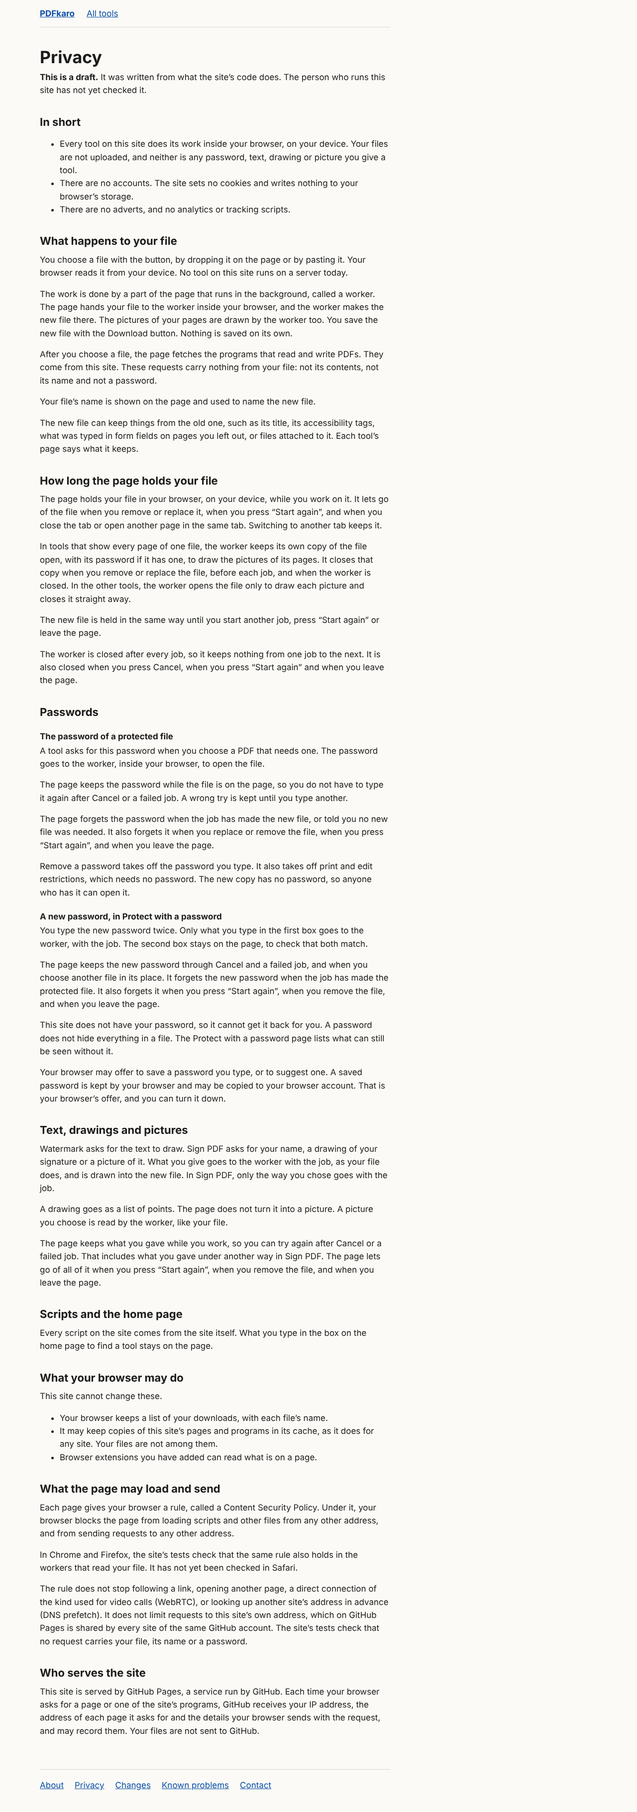
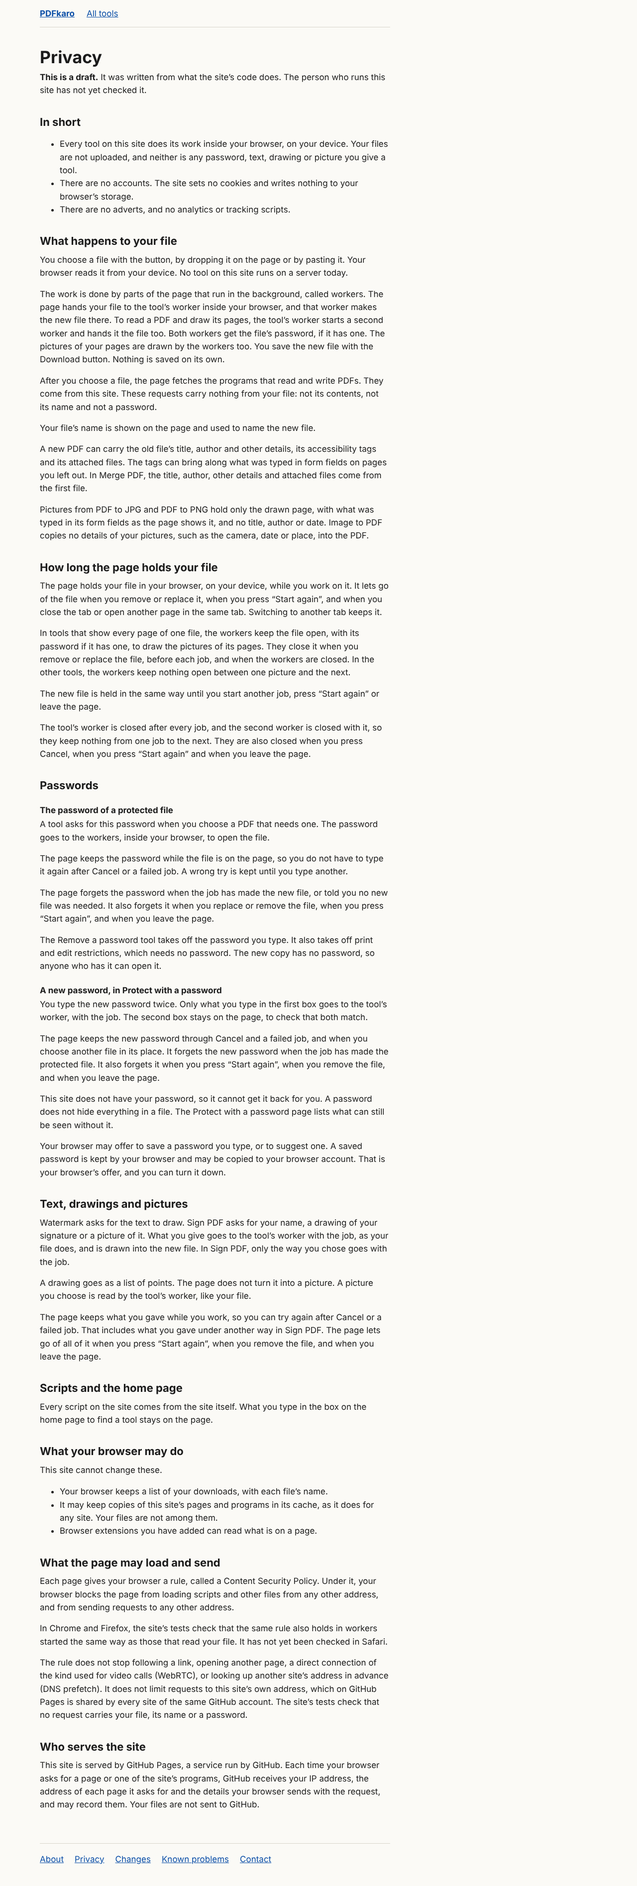
add-privacy-draft: stage 2 fixes from the privacy, UX, code and architect reviews
The Privacy page states what a new PDF and the pictures can carry, in place
of pointing to the tool pages, with Merge PDF's first file and a unit test
that its title is kept. It names PDF.js's worker, started by the tool's
worker, which also gets the file and its password and is closed with it.
The policy sentence says what csp.spec.ts proves. builtFileOf takes off the
base path and decodes; notFoundPage is shared; the draftSentence self-test
is gone. Screenshots taken again; the issue #7 text gains a page text review
item for Merge PDF, Reorder pages and PDF to PNG.

Claude-Session: https://claude.ai/code/session_01Ht5n4xeEVAutobXrc7qGtN

Changed region(s): [[0.0625, 0.0, 0.5938, 0.9618]]

diff --git a/tests/e2e/site.spec.ts b/tests/e2e/site.spec.ts
@@ -4,7 +4,7 @@ import { fileURLToPath } from 'node:url';
 import { expect, test } from './fixtures';
 import { expectNothingStored } from './no-upload';
 import { draftSentence } from '../../src/site';
-import { allPages, bannedWords, hubPages, hubs, sitePages, unwrittenPages, staticPages, toolPages } from './pages';
+import { allPages, bannedWords, hubPages, hubs, notFoundPage, sitePages, staticPages, toolPages, unwrittenPages } from './pages';
 
 /** Every file in the build, as the address path a browser asks for at the root. */
 const distDir = join(dirname(fileURLToPath(import.meta.url)), '../../dist');
@@ -14,8 +14,14 @@ const builtPaths = new Set(
     .map((entry) => `/${relative(distDir, join(entry.parentPath, entry.name)).split(sep).join('/')}`),
 );
 
-/** The built file an address path is served from: "/" is index.html, a page path its .html file. */
-function builtFileOf(pathname: string): string {
+/**
+ * The built file an address path is served from: the base path taken off and the path decoded, then "/" is
+ * index.html and a page path its .html file.
+ */
+function builtFileOf(address: string, base: string): string {
+  const prefix = base.replace(/\/+$/, '');
+  const raw = new URL(address).pathname;
+  const pathname = decodeURIComponent(prefix !== '' && raw.startsWith(`${prefix}/`) ? raw.slice(prefix.length) : raw);
   if (pathname === '/') return '/index.html';
   if (pathname.endsWith('/')) return `${pathname}index.html`;
   return /\.[a-z0-9]+$/i.test(pathname.slice(pathname.lastIndexOf('/'))) ? pathname : `${pathname}.html`;
@@ -58,8 +64,8 @@ test.describe('every page', () => {
         expect(request.method, request.url).toBe('GET');
         expect(request.body, request.url).toBeNull();
         expect(new URL(request.url).search, request.url).toBe('');
-        const pathname = new URL(request.url).pathname;
-        const file = path === '/no-such-page' && pathname === path ? '/404.html' : builtFileOf(pathname);
+        const served = builtFileOf(request.url, new URL(baseURL!).pathname);
+        const file = path === notFoundPage && served === `${notFoundPage}.html` ? '/404.html' : served;
         expect(builtPaths.has(file), `${request.url} is not a file in the build`).toBe(true);
       }
 
@@ -154,7 +160,7 @@ test.describe('canonical tags', () => {
       await expect(page.locator('link[rel="canonical"]')).toHaveCount(1);
       expect(await page.locator('link[rel="canonical"]').getAttribute('href'), path).toBe(page.url());
     }
-    await page.goto('/no-such-page');
+    await page.goto(notFoundPage);
     await expect(page.locator('link[rel="canonical"]')).toHaveCount(0);
     await expect(page.locator('meta[property^="og:"]')).toHaveCount(0);
   });
@@ -226,7 +232,7 @@ test.describe('home page group headings', () => {
 
 test.describe('page not found', () => {
   test('answers 404 and links to the list of tools', async ({ page }) => {
-    const response = await page.goto('/no-such-page');
+    const response = await page.goto(notFoundPage);
     expect(response?.status()).toBe(404);
     await expect(page.getByRole('heading', { level: 1 })).toHaveText('Page not found');
     await page.getByRole('link', { name: 'See the list of all tools' }).click();

diff --git a/tests/e2e/pages.ts b/tests/e2e/pages.ts
@@ -28,10 +28,13 @@ export const widgetPages = registryPages(tools)
   .filter(({ tool }) => tool.widget)
   .map(({ page }) => `/${page.slug}`);
 
-/** Pages with nothing to interact with yet. Tool pages leave this list when the tool widget arrives. */
-export const staticPages = [...toolPages.filter((path) => !widgetPages.includes(path)), ...hubPages, ...sitePages, '/no-such-page'];
+/** An address with no page, which the server answers with the 404 page. */
+export const notFoundPage = '/no-such-page';
 
-export const allPages = ['/', ...toolPages, ...hubPages, ...sitePages, '/no-such-page'];
+/** Pages with nothing to interact with yet. Tool pages leave this list when the tool widget arrives. */
+export const staticPages = [...toolPages.filter((path) => !widgetPages.includes(path)), ...hubPages, ...sitePages, notFoundPage];
+
+export const allPages = ['/', ...toolPages, ...hubPages, ...sitePages, notFoundPage];
 
 // Words that SPEC.md bans from every page.
 export const bannedWords = [

diff --git a/tests/unit/site.test.ts b/tests/unit/site.test.ts
@@ -1,5 +1,5 @@
 import { describe, expect, it } from 'vitest';
-import { absoluteUrl, defaultOrigin, draftSentence, footerLinks, footerPage, isSiteBase, isSiteOrigin, tagline, withBase } from '../../src/site';
+import { absoluteUrl, defaultOrigin, footerLinks, footerPage, isSiteBase, isSiteOrigin, tagline, withBase } from '../../src/site';
 import { tools as registryTools, type Group, type Tool } from '../../src/tools/registry';
 import { groupsWithItems, relatedItems, toListItem } from '../../src/tools/queries';
 import { serverTools } from './server-tools';
@@ -151,10 +151,6 @@ describe('footer pages', () => {
       ['/known-problems', false],
       ['/contact', false],
     ]);
-  });
-
-  it('share one draft line, a plain sentence the Privacy draft and the search check both read', () => {
-    expect(draftSentence).toBe('This is a draft.');
   });
 });
 

diff --git a/tests/unit/merge-pdf.test.ts b/tests/unit/merge-pdf.test.ts
@@ -183,3 +183,12 @@ describe("qpdf's arguments", () => {
     expect(mergeArgs(2, ['pw'])).toEqual(['--progress', '--password=pw', '--decrypt', '/in/0.pdf', '--pages', '.', '1-z', '/in/1.pdf', '1-z', '--', '/out.pdf']);
   });
 });
+
+describe('the document details', () => {
+  // The Privacy page says a merged file's title, author and other details come from the first file.
+  it('come from the first file: its title is kept, and no later file’s', async () => {
+    const titleOf = async (names: string[]) => (await PDFDocument.load((await merge(names)).out, { updateMetadata: false })).getTitle();
+    expect(await titleOf(['text.pdf', 'mixed.pdf'])).toBe('An ordinary text document');
+    expect(await titleOf(['mixed.pdf', 'text.pdf'])).toBe('Mixed sizes and rotation');
+  });
+});

diff --git a/openspec/changes/add-privacy-draft/design.md b/openspec/changes/add-privacy-draft/design.md
@@ -50,39 +50,41 @@ Meta description: "What happens to your files, passwords and anything you type o
 >
 > You choose a file with the button, by dropping it on the page or by pasting it. Your browser reads it from your device. No tool on this site runs on a server today.
 >
-> The work is done by a part of the page that runs in the background, called a worker. The page hands your file to the worker inside your browser, and the worker makes the new file there. The pictures of your pages are drawn by the worker too. You save the new file with the Download button. Nothing is saved on its own.
+> The work is done by parts of the page that run in the background, called workers. The page hands your file to the tool's worker inside your browser, and that worker makes the new file there. To read a PDF and draw its pages, the tool's worker starts a second worker and hands it the file too. Both workers get the file's password, if it has one. The pictures of your pages are drawn by the workers too. You save the new file with the Download button. Nothing is saved on its own.
 >
 > After you choose a file, the page fetches the programs that read and write PDFs. They come from this site. These requests carry nothing from your file: not its contents, not its name and not a password.
 >
 > Your file's name is shown on the page and used to name the new file.
 >
-> The new file can keep things from the old one, such as its title, its accessibility tags, what was typed in form fields on pages you left out, or files attached to it. Each tool's page says what it keeps.
+> A new PDF can carry the old file's title, author and other details, its accessibility tags and its attached files. The tags can bring along what was typed in form fields on pages you left out. In Merge PDF, the title, author, other details and attached files come from the first file.
+>
+> Pictures from PDF to JPG and PDF to PNG hold only the drawn page, with what was typed in its form fields as the page shows it, and no title, author or date. Image to PDF copies no details of your pictures, such as the camera, date or place, into the PDF.
 >
 > ## How long the page holds your file
 >
 > The page holds your file in your browser, on your device, while you work on it. It lets go of the file when you remove or replace it, when you press "Start again", and when you close the tab or open another page in the same tab. Switching to another tab keeps it.
 >
-> In tools that show every page of one file, the worker keeps its own copy of the file open, with its password if it has one, to draw the pictures of its pages. It closes that copy when you remove or replace the file, before each job, and when the worker is closed. In the other tools, the worker opens the file only to draw each picture and closes it straight away.
+> In tools that show every page of one file, the workers keep the file open, with its password if it has one, to draw the pictures of its pages. They close it when you remove or replace the file, before each job, and when the workers are closed. In the other tools, the workers keep nothing open between one picture and the next.
 >
 > The new file is held in the same way until you start another job, press "Start again" or leave the page.
 >
-> The worker is closed after every job, so it keeps nothing from one job to the next. It is also closed when you press Cancel, when you press "Start again" and when you leave the page.
+> The tool's worker is closed after every job, and the second worker is closed with it, so they keep nothing from one job to the next. They are also closed when you press Cancel, when you press "Start again" and when you leave the page.
 >
 > ## Passwords
 >
 > ### The password of a protected file
 >
-> A tool asks for this password when you choose a PDF that needs one. The password goes to the worker, inside your browser, to open the file.
+> A tool asks for this password when you choose a PDF that needs one. The password goes to the workers, inside your browser, to open the file.
 >
 > The page keeps the password while the file is on the page, so you do not have to type it again after Cancel or a failed job. A wrong try is kept until you type another.
 >
 > The page forgets the password when the job has made the new file, or told you no new file was needed. It also forgets it when you replace or remove the file, when you press "Start again", and when you leave the page.
 >
-> Remove a password takes off the password you type. It also takes off print and edit restrictions, which needs no password. The new copy has no password, so anyone who has it can open it.
+> The Remove a password tool takes off the password you type. It also takes off print and edit restrictions, which needs no password. The new copy has no password, so anyone who has it can open it.
 >
 > ### A new password, in Protect with a password
 >
-> You type the new password twice. Only what you type in the first box goes to the worker, with the job. The second box stays on the page, to check that both match.
+> You type the new password twice. Only what you type in the first box goes to the tool's worker, with the job. The second box stays on the page, to check that both match.
 >
 > The page keeps the new password through Cancel and a failed job, and when you choose another file in its place. It forgets the new password when the job has made the protected file. It also forgets it when you press "Start again", when you remove the file, and when you leave the page.
 >
@@ -92,9 +94,9 @@ Meta description: "What happens to your files, passwords and anything you type o
 >
 > ## Text, drawings and pictures
 >
-> Watermark asks for the text to draw. Sign PDF asks for your name, a drawing of your signature or a picture of it. What you give goes to the worker with the job, as your file does, and is drawn into the new file. In Sign PDF, only the way you chose goes with the job.
+> Watermark asks for the text to draw. Sign PDF asks for your name, a drawing of your signature or a picture of it. What you give goes to the tool's worker with the job, as your file does, and is drawn into the new file. In Sign PDF, only the way you chose goes with the job.
 >
-> A drawing goes as a list of points. The page does not turn it into a picture. A picture you choose is read by the worker, like your file.
+> A drawing goes as a list of points. The page does not turn it into a picture. A picture you choose is read by the tool's worker, like your file.
 >
 > The page keeps what you gave while you work, so you can try again after Cancel or a failed job. That includes what you gave under another way in Sign PDF. The page lets go of all of it when you press "Start again", when you remove the file, and when you leave the page.
 >
@@ -114,7 +116,7 @@ Meta description: "What happens to your files, passwords and anything you type o
 >
 > Each page gives your browser a rule, called a Content Security Policy. Under it, your browser blocks the page from loading scripts and other files from any other address, and from sending requests to any other address.
 >
-> In Chrome and Firefox, the site's tests check that the same rule also holds in the workers that read your file. It has not yet been checked in Safari.
+> In Chrome and Firefox, the site's tests check that the same rule also holds in workers started the same way as those that read your file. It has not yet been checked in Safari.
 >
 > The rule does not stop following a link, opening another page, a direct connection of the kind used for video calls (WebRTC), or looking up another site's address in advance (DNS prefetch). It does not limit requests to this site's own address, which on GitHub Pages is shared by every site of the same GitHub account. The site's tests check that no request carries your file, its name or a password.
 >
@@ -129,6 +131,13 @@ Notes on wording, from the stage 1 review:
 - The first sentence of "What the page may load and send" speaks only of the page. Workers are named only in the sentence about Chrome and Firefox, because the policy in the file-reading workers has not been checked in Safari (`add-content-security-policy`, WebKit risk; issue #7).
 - "Any other address", not "any other site": on GitHub Pages the site's own address is shared with the account's other Pages sites, which the policy allows.
 - The earlier "What the site does not do" list repeated "In short"; only what was new is kept, under "Scripts and the home page".
+
+Changed at the stage 2 review (privacy, UX):
+- "Each tool's page says what it keeps" was not true (Merge PDF's, Reorder pages' and PDF to PNG's pages do not say it all). The page now states what a new PDF and the pictures can carry, with Merge PDF's first file and Image to PDF's picture details. The tool pages are not changed here; their missing lines are an issue #7 page text review item.
+- PDF.js's worker was left out. The page now says the tool's worker starts a second worker to read a PDF and draw its pages, that both get the file and its password, and that both are closed together. "The worker" is now "the tool's worker" where only it is meant.
+- "Opens the file only to draw each picture" became "keep nothing open between one picture and the next": the workers also open the file to read it and to run the job.
+- The policy sentence on workers says what `csp.spec.ts` proves: the rule holds in workers started the same way as those that read the file.
+- "The Remove a password tool takes off…", so the tool's name reads as a name.
 
 ### 3. Draft and search engines
 
@@ -153,21 +162,21 @@ Each claim on the page, the code that makes it true today, and what proves it. "
 | Every tool works in the browser; no tool runs on a server today | Every `runsIn: 'browser'` in `src/tools/registry.ts`; jobs go by `postMessage` in `src/workers/client.ts` | Server guard in `tests/unit/privacy-page.test.ts` (decision 5); `tests/unit/client.test.ts` "posts the file itself" |
 | Files, passwords, text, drawings and pictures are not uploaded; requests carry nothing from the file, its name or a password | `useToolRun` holds files, passwords and pictures in refs and sends them only to the worker | Each tool's no-upload test (`violations` in `tests/e2e/no-upload.ts`: no body, no other origin, no secret in an address or header), in the 13 tool specs and `merge-pdf.spec.ts`; secrets include file names, typed text, picture names and passwords |
 | The programs come from this site, after a file is chosen | Late loading in `tool.worker.ts`; `connect-src 'self'` | `npm run check:worker`; `site.spec.ts` "every page" (all requests same-origin); no-upload allow-lists of built files |
-| The worker makes the new file and draws the page pictures; you save it with Download; nothing saves on its own | `worker-core.ts`, `thumbnail.ts`; `Result` has `<a download>` | Every tool's e2e test presses Download; `tool-page` spec |
+| The tool's worker makes the new file; to read a PDF and draw its pages it starts a second worker (PDF.js's) and hands it the file; both get the file's password; the workers draw the page pictures; you save it with Download; nothing saves on its own | `worker-core.ts`; `createPdfjsLoader` in `pdfjs-loader.ts` starts PDF.js's worker through `workerFromBlob`; `openDocument` in `thumbnail.ts` passes the bytes and password to `getDocument` (thumbnails and the PDF to JPG and PNG job); `picture-thumbnail.ts` draws pictures in the tool worker; `Result` has `<a download>` | Every tool's e2e test presses Download; `tool-page` spec; `merge-pdf.spec.ts` no-upload test sees `pdf.worker.min` fetched after thumbnails are asked for; `thumbnail-plumbing.test.ts` (password passed to `openDocument`) |
 | The file's name is shown and used to name the new file | `outputName` in `useToolRun`; names never sent | `format.test.ts` output names; no-upload secrets |
-| The new file can keep title, tags, field values of left-out pages, attachments; each tool's page says what | Tools' engines (`keepPages`, Merge's first-file attachments) | Each tool's page text and engine tests (Extract, Delete, Merge); release check that the page text still says so |
+| A new PDF can carry the title, author and other details, tags and attachments; tags can bring field values of left-out pages; in Merge PDF the details and attachments are the first file's; PDF to JPG and PNG pictures hold only the drawn page (form values as shown), no title, author or date; Image to PDF copies no picture details | qpdf keeps the primary input's trailer `/Info` and catalog (Merge: the first file is the primary input, `mergeArgs`); `keepPages`, `writePages`, `stampPages` keep the catalog; `pdf-to-images.ts` draws with form values and the canvas encoder writes no text, EXIF or comment; `images-to-pdf.ts` creates the document with `updateMetadata: false` and rebuilds JPGs without picture details | `merge-pdf.test.ts` "the document details" (new: the first file's title is kept, no later file's); Extract and Delete engine tests (tags, fields of left-out pages); `images-to-pdf.test.ts` (no `/Info`, no `/Metadata`, no Exif or GPS); release check for the picture encoders (browser behaviour) |
 | The page holds the file until remove/replace, "Start again" or leaving; switching tabs keeps it | `removeFile`, `clear`, `pagehide` → `clear` in `useToolRun.ts` | Release check (the repo has no DOM test library); `state.test.ts` for the reducer side; the new e2e step below for the result |
-| In tools that show every page of one file (`items: 'pages'`: Split, Extract, Delete, Reorder, Rotate), the worker keeps its own open copy, with the password, while the file is on the page, and closes it on remove, replace, before every read and every job, and when the worker is closed; other tools open the file for each picture and close it at once | `keep = words.items === 'pages'` and `closeDocument` after each picture otherwise (`useToolRun.ts`, thumbnail step); `closeDocument` in `removeFile`; `closeKept()` before every read and job in `worker-core.ts`; `ToolClient.run` ends the worker; PDF.js document in `thumbnail.ts` | `thumbnail-plumbing.test.ts` ("draws many pages of one file from one open document", "closes it when another file is asked for", "closes it before a read and before a job"); release check for keep-versus-close per tool and for remove and replace in the page |
+| In tools that show every page of one file (`items: 'pages'`: Split, Extract, Delete, Reorder, Rotate), the workers keep the file open, with the password, while the file is on the page, and close it on remove, replace, before every read and every job, and when the workers are closed; other tools keep nothing open between pictures | `keep = words.items === 'pages'` and `closeDocument` after each picture otherwise (`useToolRun.ts`, thumbnail step); `closeDocument` in `removeFile`; `closeKept()` before every read and job in `worker-core.ts` destroys the PDF.js document, which lives in PDF.js's worker; `ToolClient.run` ends the tool worker | `thumbnail-plumbing.test.ts` ("draws many pages of one file from one open document", "closes it when another file is asked for", "closes it before a read and before a job"); release check for keep-versus-close per tool and for remove and replace in the page |
 | The new file is held until another job, "Start again" or leaving | `releaseResult` in `start` and `clear` revokes the `blob:` address | New e2e test in `merge-pdf.spec.ts`, in its own context with `bypassCSP: true` (the policy refuses `fetch` of a `blob:` address either way): `fetch` of the Download `href` and a thumbnail's `blob:` address succeeds before "Start again" and fails after. Leaving: release check |
-| The worker is closed after every job and on Cancel | `ToolClient.run` ends it in `finally`; `cancel` calls `end()` | `client.test.ts` "ends the worker when the job is done", "cancels by ending the worker"; `worker-core.test.ts` |
-| The worker is closed on "Start again" and on leaving | `clear` calls `end()`; `pagehide` → `clear` | Release check |
+| The tool's worker is closed after every job and on Cancel, and PDF.js's worker, nested in it, is closed with it | `ToolClient.run` ends it in `finally`; `cancel` calls `end()`; `terminate()` of a worker also closes the workers it started (HTML standard) | `client.test.ts` "ends the worker when the job is done", "cancels by ending the worker"; `worker-core.test.ts`; release check that the nested worker goes with it |
+| The workers are closed on "Start again" and on leaving | `clear` calls `end()`; `pagehide` → `clear` | Release check |
 | An input file's password: kept while on the page and through Cancel and failure; forgotten after a new file or a "no new file" outcome, replace/remove, "Start again", leaving; a wrong try kept until replaced | `runJob` `forgetInputPasswords`; `removeFile`; `clear`; `useToolRun` tickets | `run-job.test.ts`; `unlock-pdf.spec.ts` (wrong try answered last); release check for remove, replace and leaving |
 | Remove a password: restrictions removed with no password; the new copy has no password and opens for anyone | `src/engines/tools/unlock-pdf.ts` (`--decrypt`, `encryptedIn` check) | `unlock-pdf.test.ts` (restrictions-only file, result not encrypted); `unlock-pdf.spec.ts` |
 | A new password: only the first box goes; kept through Cancel, failure and another file chosen in its place; forgotten after the protected file, "Start again", removing the file, leaving | `jobOptions` sends `first` only; `forgetNewPasswords` in `runJob`, `removeFile`, `clear` | `run-job.test.ts`; `options.test.ts`; `protect-pdf.spec.ts` emptied-field and no-upload checks; release check for leaving |
 | The site does not have the password and cannot get it back | No request carries it | `protect-pdf.spec.ts` no-upload; `password-rule.test.ts` |
 | The browser may offer to save or suggest a password, and sync it | `autocomplete="new-password"` in `NewPasswordField`; `autocomplete="off"` in `PasswordField`, which browsers may still offer to save | Browser behaviour; release check |
-| Text, drawings and pictures go to the worker with the job and are drawn into the file; in Sign PDF only the chosen way goes | Options in `jobOptions`; hidden options send no key (`optionsToSend`, `picturesToSend`) | `options.test.ts` (hidden option sends no key); `watermark-pdf.spec.ts`, `sign-pdf.spec.ts` no-upload |
-| A drawing goes as points and is not turned into a picture; a picture is read by the worker | `DrawingPad` keeps points; pictures in a ref, `inspect-picture` in the worker | `components.test.tsx` pad source test; `sign-pdf.spec.ts` |
+| Text, drawings and pictures go to the tool's worker with the job and are drawn into the file; in Sign PDF only the chosen way goes | Options in `jobOptions`; hidden options send no key (`optionsToSend`, `picturesToSend`) | `options.test.ts` (hidden option sends no key); `watermark-pdf.spec.ts`, `sign-pdf.spec.ts` no-upload |
+| A drawing goes as points and is not turned into a picture; a picture is read by the tool's worker | `DrawingPad` keeps points; pictures in a ref, `inspect-picture` in the tool worker (no PDF.js) | `components.test.tsx` pad source test; `sign-pdf.spec.ts` |
 | What was given is kept through Cancel and failure, including other ways in Sign PDF; let go on "Start again", removing the file, leaving | Reducer `choices` reset on `reset` and on removing the last file; hidden options keep their values; `pictures` cleared in `clear` and `removeFile` | `state.test.ts` "forgets a choice when the last file is removed"; `options.test.ts`; release check for leaving |
 | Tools named per input kind | `options` kinds in the registry | Names guard in `privacy-page.test.ts` (decision 5) |
 | No accounts | No sign-in code anywhere | Release check |
@@ -176,7 +185,7 @@ Each claim on the page, the code that makes it true today, and what proves it. "
 | What is typed in the home page box stays on the page | `ToolDirectory` filters in the page | `home.spec.ts` "keeps what is typed on the page" |
 | Downloads list, cache, extensions | Browser behaviour | Release check |
 | The page is blocked from loading from, and sending to, other addresses | `scripts/csp.mjs` meta policy | `npm run check:csp`; `csp.spec.ts` page probes |
-| In Chrome and Firefox the same rule holds in the file-reading workers | `workerFromBlob` starts both workers from `blob:` | `csp.spec.ts` in Chromium and the `firefox` project: a probe worker started the same `blob:` way, and one nested in it, have `eval` and other-origin `fetch` blocked; real jobs (Merge, PDF to JPG, Sign, Split) show `blob:` worker starts and no violation |
+| In Chrome and Firefox the same rule holds in workers started the same way as those that read the file | `workerFromBlob` starts both workers from `blob:` | `csp.spec.ts` in Chromium and the `firefox` project: a probe worker started the same `blob:` way, and one nested in it, have `eval` and other-origin `fetch` blocked; real jobs (Merge, PDF to JPG, Sign, Split) show `blob:` worker starts and no violation |
 | Not yet checked in Safari | WebKit dropped from CI (owner, 22 Nov 2026) | Issue #7 hand check; the Safari guard keeps the sentence (decision 5) |
 | The policy does not stop links, opening pages, WebRTC or DNS prefetch, nor requests to the site's own address, shared by every Pages site of the account | Meta policy; `'self'` is the `github.io` origin | `privacy` spec "What the policy does not stop"; no-upload tests guard same-origin requests; the guard keeps the sentence |
 | Served by GitHub Pages, which receives the IP address, the address asked for and request details, and may record them | `.github/workflows/pages.yml` | Release check; owner question 3 |
@@ -200,7 +209,7 @@ The test reads `src/pages/privacy.astro` as text, strips the frontmatter (betwee
 ### 6. Checks in the site end-to-end test
 
 - `tests/e2e/no-upload.ts` exports `expectNothingStored(page, context)`, built on `traces`: no cookie, and `localStorage`, `sessionStorage`, `indexedDB.databases()`, `caches.keys()` and the origin private file system all empty. Tools' own tests may move to it later; this change does not touch them.
-- "Every page keeps to the look and the rules" in `site.spec.ts` calls it after the network settles, and also requires every request to be a `GET` with no body and no query string, to the site's own origin and a path that exists in `dist/` (the base path removed, `/` and page paths mapped to their `.html` files).
+- "Every page keeps to the look and the rules" in `site.spec.ts` calls it after the network settles, and also requires every request to be a `GET` with no body and no query string, to the site's own origin and a path that exists in `dist/` (the base path removed and the path percent-decoded, `/` and page paths mapped to their `.html` files; the 404 test address, `notFoundPage` in `tests/e2e/pages.ts`, maps to `404.html`).
 - "The privacy page makes no claim" becomes "the privacy page is a marked draft": one `h1` "Privacy", the first paragraph of `main` starts with `draftSentence`, and `meta[name="robots"]` is present.
 - `merge-pdf.spec.ts` gains one test in its own browser context created with `bypassCSP: true`, because `connect-src 'self'` refuses `fetch` of a `blob:` address whether or not it was revoked, so under the policy the test would fail on the violation or pass for the wrong reason. After a job it keeps the Download `href` and one thumbnail's `blob:` address and checks that `fetch` of each in the page succeeds (the positive control), presses "Start again", and checks that `fetch` of each now fails. Only this test bypasses the policy; every other test keeps the policy watch from `tests/e2e/fixtures.ts`. The test sends nothing outside the page.
 

diff --git a/openspec/changes/add-privacy-draft/issue-7-comment.md b/openspec/changes/add-privacy-draft/issue-7-comment.md
@@ -13,16 +13,18 @@ Owner review of the Privacy draft:
 - [ ] Error reports: add "No error reports are sent anywhere."? Default: no.
 - [ ] Draft and search engines: keep `noindex` and out of the sitemap until approved (the default), so "the sitemap lists every page" in "Definition of done, The site" stays not passed until then.
 
+- [ ] Page text review: the Privacy page now says what a new file can keep, but three tool pages do not say it all yet. Merge PDF's page does not say the merged file keeps the first file's title, author and other details. Reorder pages' page does not name the document's title and details. PDF to PNG's page does not say its pictures hold only the drawn page, with no title, author or date (PDF to JPG's page does). These pages are not changed in `add-privacy-draft`.
+
 Release checks (no automated test watches these; read them again against the code before each release, using the claim table in `openspec/changes/add-privacy-draft/design.md`, decision 4, or its archived copy):
 
 - [ ] The page lets go of the file when it is removed or replaced and on leaving the page; switching tabs keeps it (`removeFile`, `pagehide` → `clear` in `src/hooks/useToolRun.ts`).
-- [ ] In tools that show every page of one file the worker keeps its own copy open; in the others it closes each document after each picture; the page closes the kept copy on remove and replace.
+- [ ] In tools that show every page of one file the workers keep the file open; in the others nothing is kept open between pictures; the page closes the kept copy on remove and replace.
 - [ ] The new file is let go on leaving the page.
-- [ ] The worker is closed on "Start again" and on leaving the page.
+- [ ] The tool's worker, and PDF.js's worker with it, are closed on "Start again" and on leaving the page; ending the tool's worker also ends PDF.js's worker.
 - [ ] An input file's password is forgotten on remove, replace and leaving the page.
 - [ ] A new password is forgotten on leaving the page.
 - [ ] Text, drawings and pictures are let go on leaving the page.
-- [ ] Each tool's page still says what a new file keeps from the old one.
+- [ ] PDF to JPG and PDF to PNG pictures still hold no text, EXIF or comment (the browser's canvas encoder).
 - [ ] The browser may offer to save or suggest a password (`autocomplete="new-password"` in `NewPasswordField`).
 - [ ] No accounts anywhere in the code.
 - [ ] On the live host, no cookie is set by a response header.

diff --git a/openspec/changes/add-privacy-draft/tasks.md b/openspec/changes/add-privacy-draft/tasks.md
@@ -30,6 +30,17 @@ This change adds no tool, so the usual order is followed in spirit: settings and
 
 - [ ] 5.1 Run the `review-panel` skill, stage 2, with the privacy reviewer reading every sentence against decision 4. Fix every must-fix finding, update design.md where a sentence changes, and put the verdicts and the owner questions from proposal.md in the pull request description. Verify: every reviewer approves.
 
+## 6. Stage 2 review fixes
+
+- [x] 6.1 Privacy (must fix): replace "Each tool's page says what it keeps." with the facts on the Privacy page: a new PDF can carry the title, author and other details, tags and attachments; in Merge PDF the details and attachments are the first file's; PDF to JPG and PNG pictures hold only the drawn page, with typed form values as shown and no title, author or date; Image to PDF copies no picture details. Add a Merge PDF unit test that the first file's title is kept. Add a page text review item to the issue #7 comment for the missing lines on the Merge PDF, Reorder pages and PDF to PNG pages, which this change does not edit. Verify: each fact confirmed in the code; the new test passes.
+- [x] 6.2 Privacy (must fix): name PDF.js's worker. The tool's worker starts a second worker to read a PDF and draw its pages; both get the file and its password; both are closed together. Say "the tool's worker" where only it is meant. Verify: the policy guard still passes.
+- [x] 6.3 Privacy: "the workers keep nothing open between one picture and the next" in place of "opens the file only to draw each picture".
+- [x] 6.4 Privacy: the policy sentence says the rule holds "in workers started the same way as those that read your file", as `csp.spec.ts` proves; the paragraph still starts "In Chrome and Firefox".
+- [x] 6.5 UX: "The Remove a password tool takes off the password you type."
+- [x] 6.6 Code: `builtFileOf` in `site.spec.ts` takes off the base path and percent-decodes the path.
+- [x] 6.7 Architect: drop the `site.test.ts` assertion that `draftSentence` equals its own words; export `notFoundPage` from `tests/e2e/pages.ts` and use it in `site.spec.ts`.
+- [x] 6.8 Run lint, check, test, build, weigh, check:seo, check:csp, spec, and `site.spec.ts` with the privacy-related e2e tests. Verify: all pass.
+
 ## Workflow follow-up
 
 - Add "owner review of the Privacy draft" to issue #7 when the pull request is opened, so the owner's review is tracked with the other Phase 1 hand checks.
